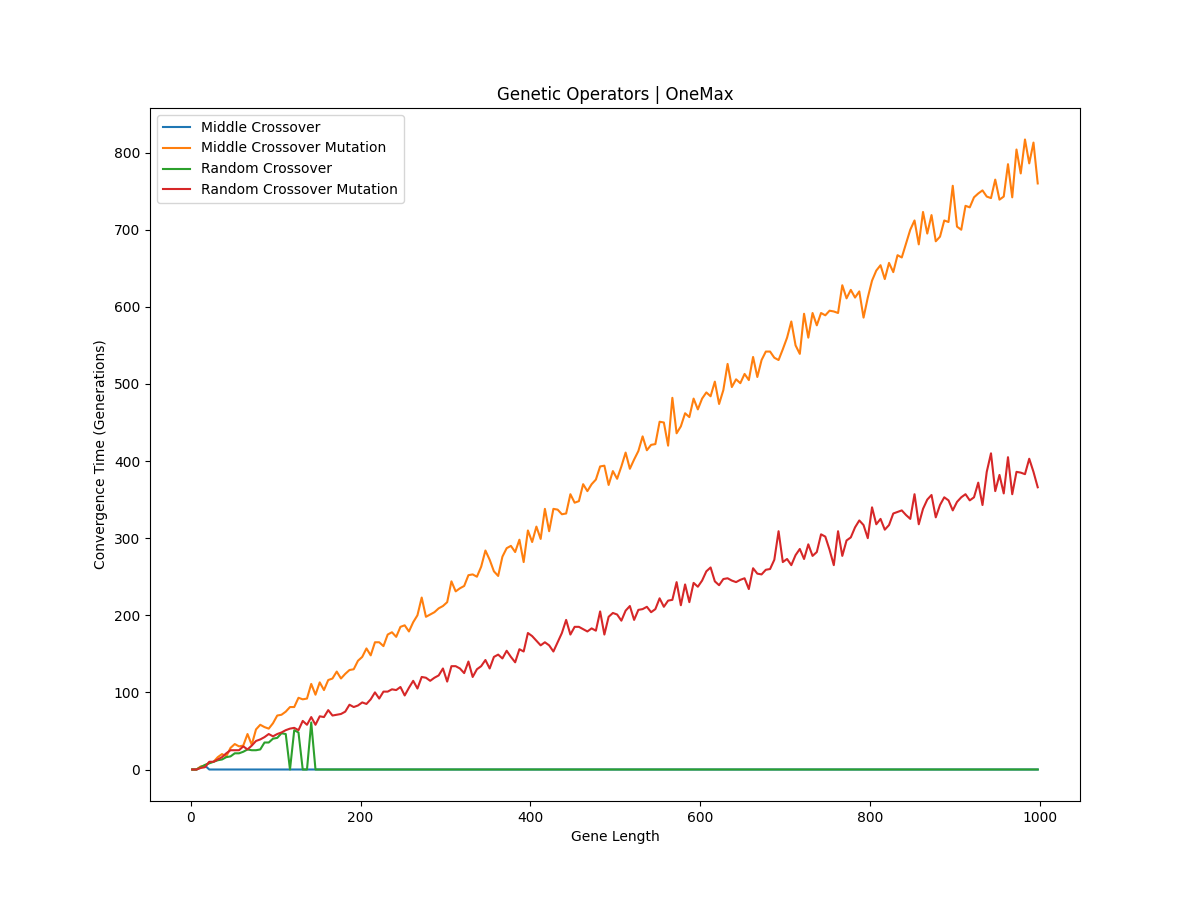
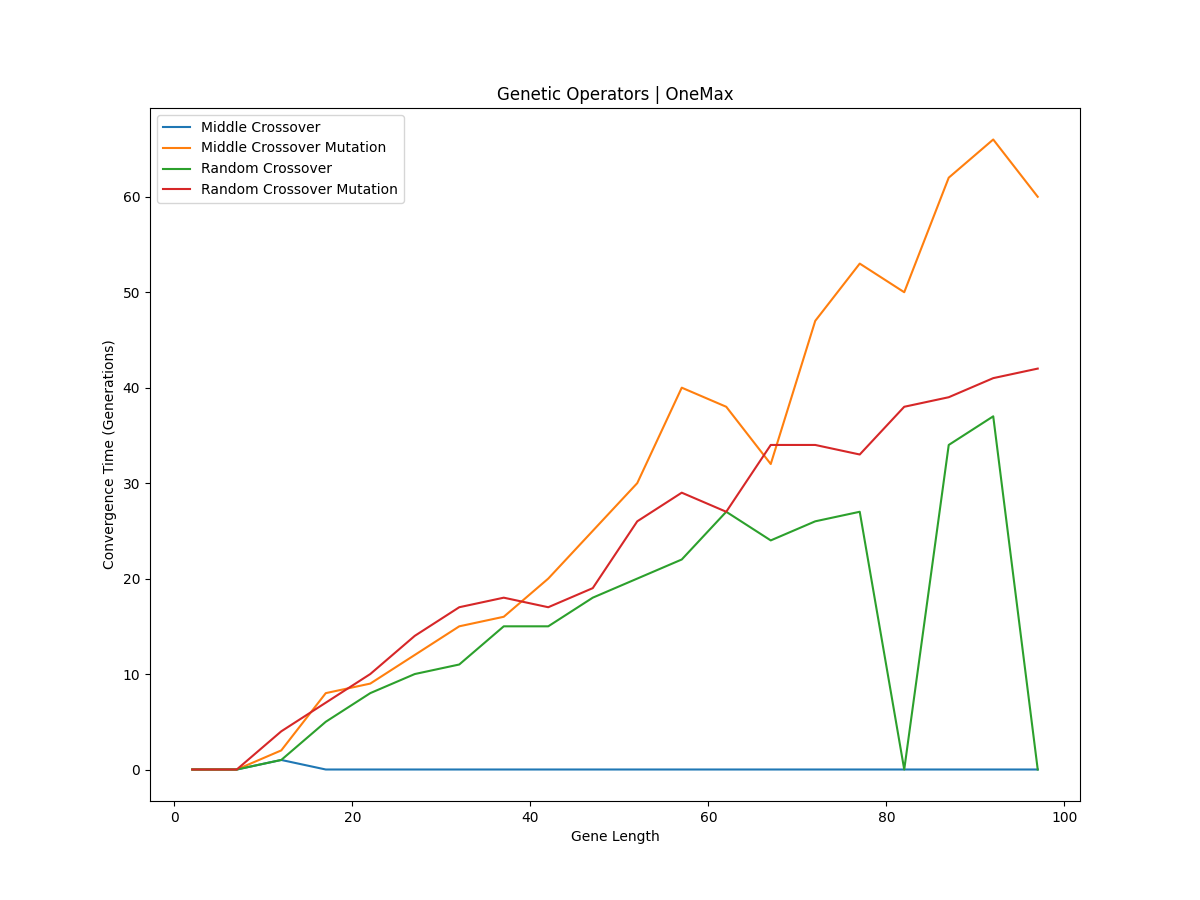
refactoring code into packages...

diff --git a/main.py b/main.py
@@ -1,8 +1,8 @@
 from imports import np, tqdm
 from constants import POPULATION_SIZE, GENETIC_OPERATORS
-from generate_population import generate_population
-from repopulate import split_genes_middle, split_genes_random
-from genetic_evolution import genetic_evolution
+from genetic_algorithm.generate_population import generate_population
+from genetic_algorithm.repopulate import split_genes_middle, split_genes_random
+from genetic_algorithm.genetic_evolution import genetic_evolution
 from log import create_file_path, save_dicts_to_yaml
 from generate_charts import generate_charts
 
@@ -13,10 +13,10 @@ MINIMUM_GENE_LENGTH = 2
 def main():
     gene_split_methods_funcs = [split_genes_middle, split_genes_middle, split_genes_random, split_genes_random]
     mutate_children = [False, True, False, True]
-    gene_length_to_convergences = [{}, {}, {}, {}]
+    gene_length_to_convergences = [{} for _ in range(4)]
 
-    gene_length_low = 2
-    gene_length_high = 1_000
+    gene_length_low = MINIMUM_GENE_LENGTH
+    gene_length_high = 100
     step_size = 5
 
     for gene_length in tqdm(range(gene_length_low, gene_length_high, step_size)):

diff --git a/log.py b/log.py
@@ -1,10 +1,10 @@
 from imports import yaml
 from constants import PROJECT_DIRECTORY
 
-LOGGING_DIRECTORY = PROJECT_DIRECTORY / 'convergence data'
+LOGGING_DIRECTORY = PROJECT_DIRECTORY / 'convergence_data'
 
 def create_file_path(gene_length_low, gene_length_high, gene_split_method):
-    return f'{LOGGING_DIRECTORY}{gene_length_low}-{gene_length_high} {gene_split_method}.yaml'
+    return LOGGING_DIRECTORY / f'{gene_length_low}-{gene_length_high} {gene_split_method}.yaml'
 
 def save_dicts_to_yaml(file_path, gene_to_convergence_dict):
     with open(file_path, 'w') as f:

diff --git a/genetic_algorithm/genetic_evolution.py b/genetic_algorithm/genetic_evolution.py
@@ -1,6 +1,6 @@
 from constants import POPULATION_SIZE
-from repopulate import repopulate
-from mutate import mutate
+from genetic_algorithm.repopulate import repopulate
+from genetic_algorithm.mutate import mutate
 
 def genetic_evolution(population, perfect_chromosome, gene_split_method, gene_length, mutate_children: bool):
     epochs, epochs_w_no_progress = 0, 0

diff --git a/genetic_algorithm/mutate.py b/genetic_algorithm/mutate.py
@@ -13,8 +13,3 @@ def mutate(children, gene_length):
             current_gene = child[index_of_gene_to_mutate]
             children[i] = child[:index_of_gene_to_mutate] + OPPOSITE_GENE_MAP[current_gene] + child[index_of_gene_to_mutate+1:]
     return children
-
-
-
-if __name__ == '__main__':
-    print(mutate(['11'], 3))
